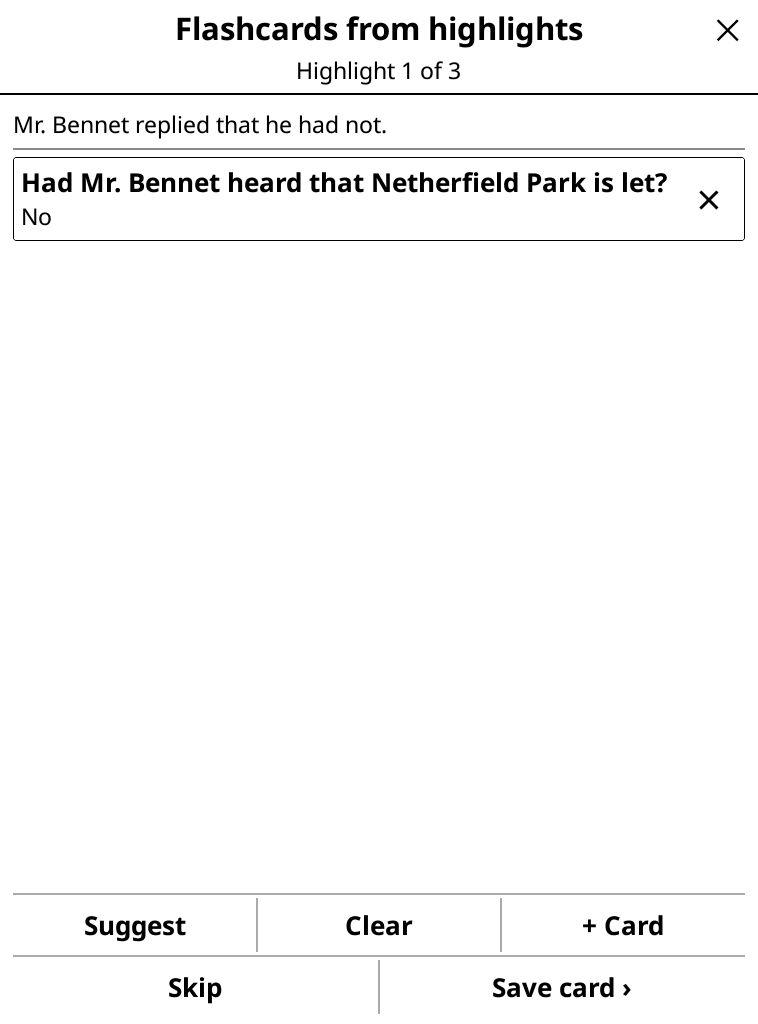
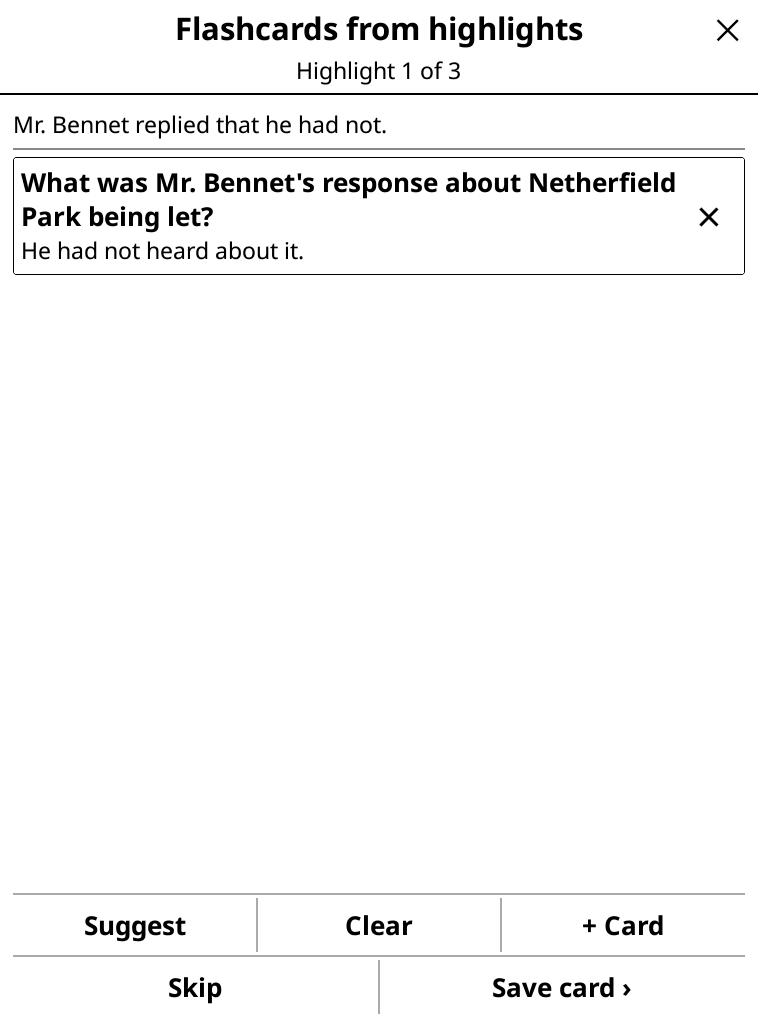
feat(koreader): write a card's front and back on two full screens

Changed region(s): [[0.0303, 0.1562, 0.9103, 0.2812], [0.9103, 0.1875, 0.971, 0.2188]]

diff --git a/README.md b/README.md
@@ -54,7 +54,7 @@ The original stripped every card down to plain text, so the question and answer 
 
 Highlight a passage in [KOReader](https://koreader.rocks) and tap **Create flashcard**. The passage is saved as a normal highlight and a card editor opens. Or keep reading and highlighting, then pick **Flashcards from highlights** in the Tools menu to turn the new highlights into cards one after another, skipping the ones you don't want. Each highlight is offered once; the plugin remembers which ones you've reviewed in the book's own KOReader settings.
 
-With the [AI Assistant](https://github.com/omer-faruq/assistant.koplugin) plugin installed, the editor opens with suggested cards: short questions with short answers, each asking something different about the highlight. While reading, you choose how many cards to ask for (1 by default). In batch mode the AI decides: one card for a focused highlight, more for a rich one, up to a limit you set. The AI sees the book, chapter, the text around the highlight and your note on it. Edit them, drop them, or ask again. AI suggestions can be turned off, for example in flight mode.
+With the [AI Assistant](https://github.com/omer-faruq/assistant.koplugin) plugin installed, the editor opens with suggested cards: short questions with short answers, each asking something different about the highlight. While reading, you choose how many cards to ask for (1 by default). In batch mode the AI decides: one card for a focused highlight, more for a rich one, up to a limit you set. The AI sees the book, chapter, the text around the highlight and your note on it. Edit them, drop them, or ask again. AI suggestions can be turned off, for example in flight mode: you then write the card yourself, the front on one full screen and the back on the next.
 
 <table>
   <tr>
